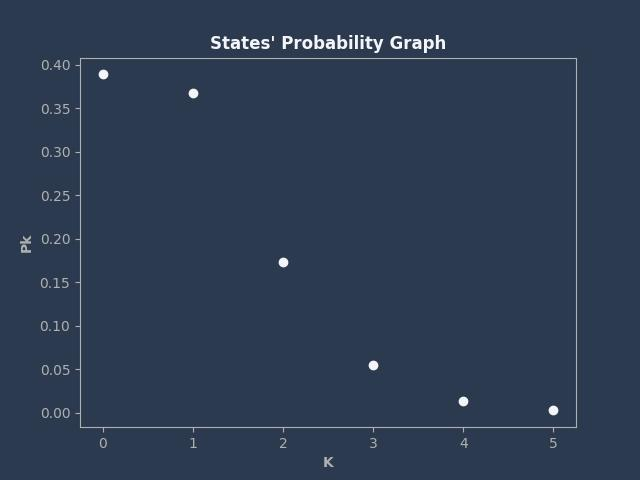
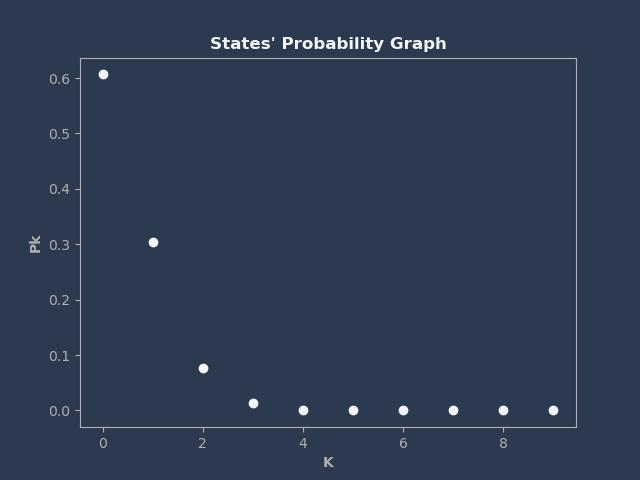
toggle

diff --git a/src/graphicPage.py b/src/graphicPage.py
@@ -153,6 +153,7 @@ class GraphicPage(Screen):
     text_color_1 = Styles.light_1_color
     image_source = AsyncImage()
     image_source.source = "img/A_Ls_Graph.jpg"
+    count_switch = 0
 
     def inputStart(self):
         self.ids.graph.remove_widget(self.image_source)
@@ -171,10 +172,15 @@ class GraphicPage(Screen):
         input ={
             "Y": int(self.ids.y.text),
             "arrivalRate": float(self.ids.arrival.text),
-            "serviceRate": float(self.ids.mu.text)
+            "serviceRate": float(self.ids.mu.text),
+            "state": int(self.ids.state.text)
         }
-        graph = Graphs(input, 40)
-        graph.createGeneralGraph()
+
+        graph_A_Ls = Graphs(input, 40)
+        graph_A_Ls.createGeneralGraph()
+
+        graph_k_Pk = Graphs(input, 40)
+        graph_k_Pk.createExerciseGraph()
 
         self.image_source.source = "img/A_Ls_Graph.jpg"
         self.image_source.reload()
@@ -188,9 +194,18 @@ class GraphicPage(Screen):
         self.ids.Ws.text = "0"
     
     def switchGraph(self):
-        pass
-        # cambaire nome a image_source in grafico richiesto
-        # chiamare funzione input_start
+
+        GraphicPage.count_switch += 1
+
+        if GraphicPage.count_switch == 0:
+            self.image_source.source = "img/A_Ls_Graph.jpg"
+            self.image_source.reload()
+            
+        elif GraphicPage.count_switch == 1:
+            self.image_source.source = "img/k_Pk_Graph.jpg"
+            self.image_source.reload()
+            GraphicPage.count_switch = -1
+
 
     def goToData(self):
         self.manager.current = "dataPage"

diff --git a/src/libs/graphs.py b/src/libs/graphs.py
@@ -51,7 +51,7 @@ class Graphs():
         plt.xlabel("A", fontweight='bold', color=Styles.light_2_color)
         plt.ylabel("Ls", fontweight='bold', color=Styles.light_2_color)
         plt.savefig("img/A_Ls_Graph.jpg")
-        #plt.show()
+        # plt.show()
     
     def createExerciseGraph(self):
         # graph surrounding bg color
@@ -84,4 +84,4 @@ class Graphs():
         plt.xlabel("K", fontweight='bold', color=Styles.light_2_color)
         plt.ylabel("Pk", fontweight='bold', color=Styles.light_2_color)
         plt.savefig("img/k_Pk_Graph.jpg")
-        plt.show()
+        # plt.show()

diff --git a/src/main.py b/src/main.py
@@ -21,8 +21,9 @@ class Interface(ScreenManager):
 class QueuesystemApp(App):
     pass
 
-# QueuesystemApp().run()
+QueuesystemApp().run()
 
+'''
 input = {
     "Y": 6,
     "arrivalRate": 8,
@@ -33,3 +34,4 @@ g = Graphs(input, 40)
 
 g.createGeneralGraph()
 g.createExerciseGraph()
+'''
